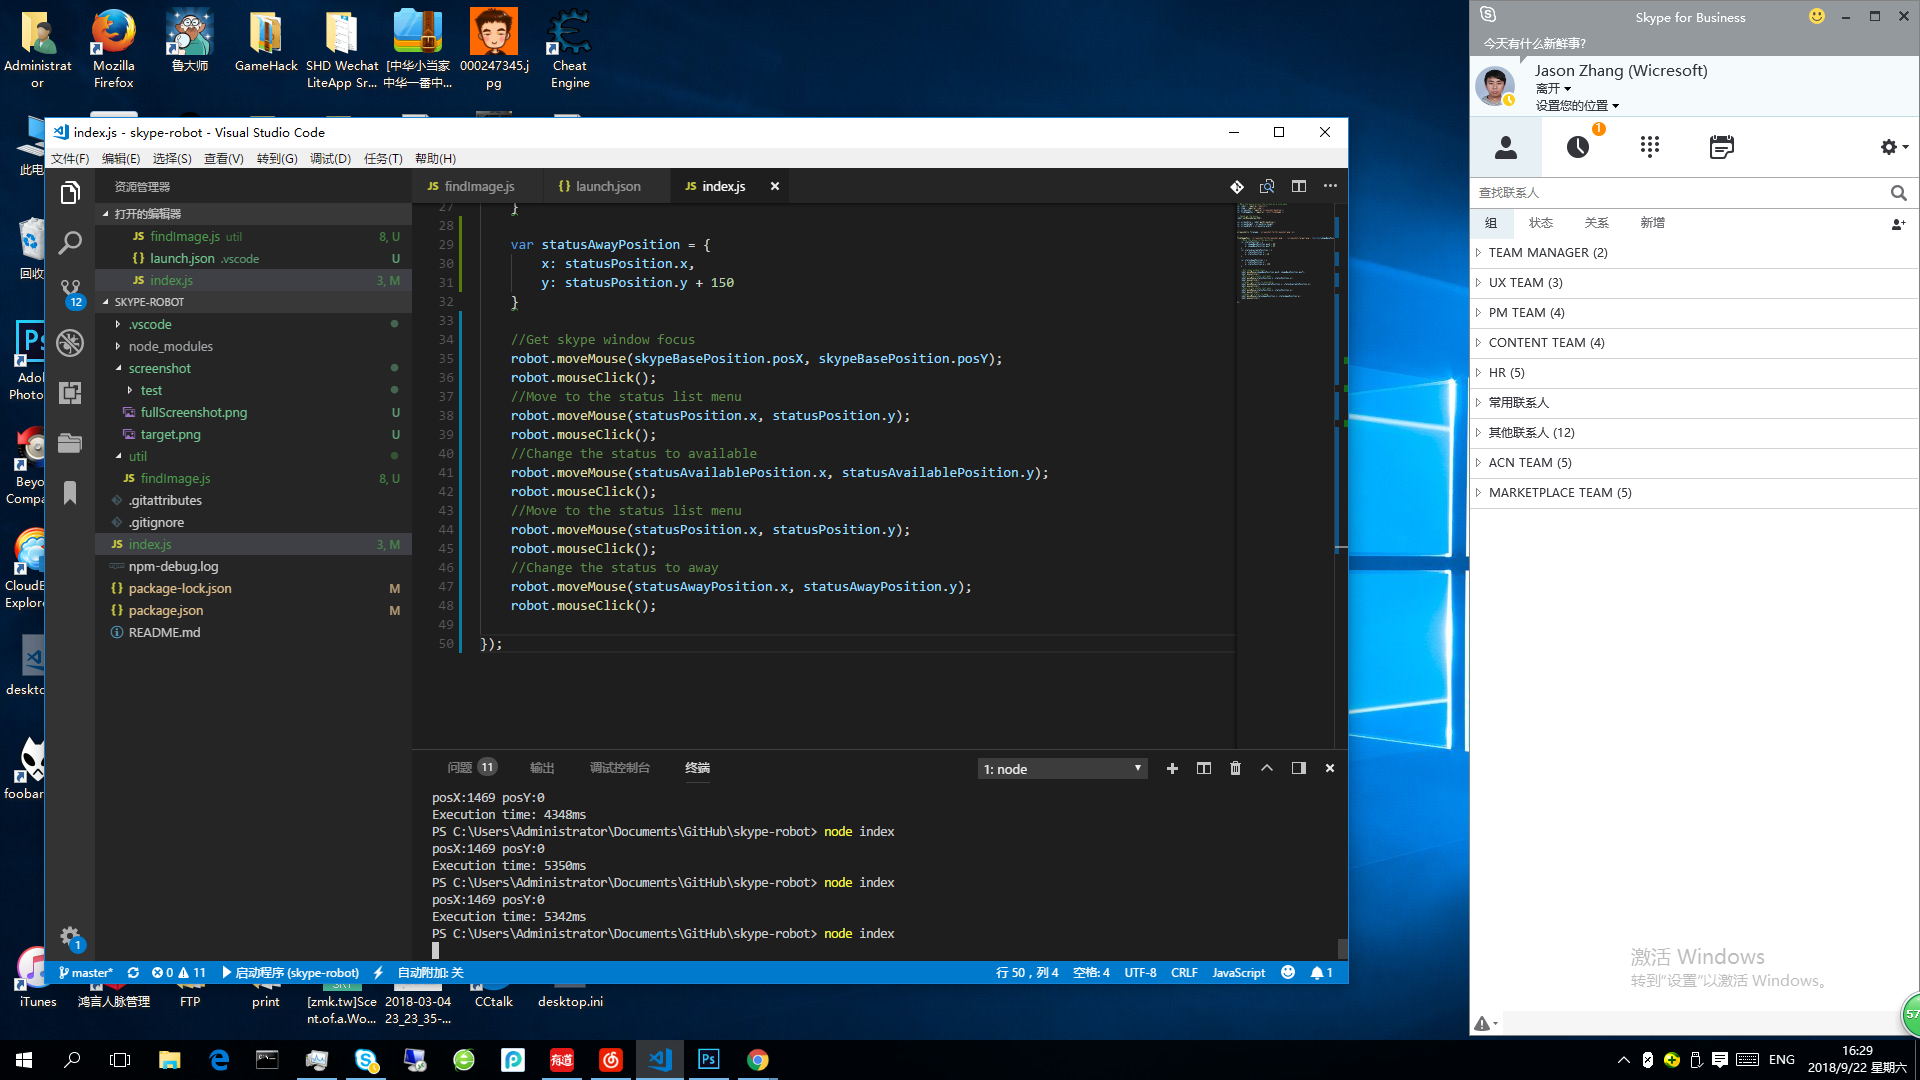
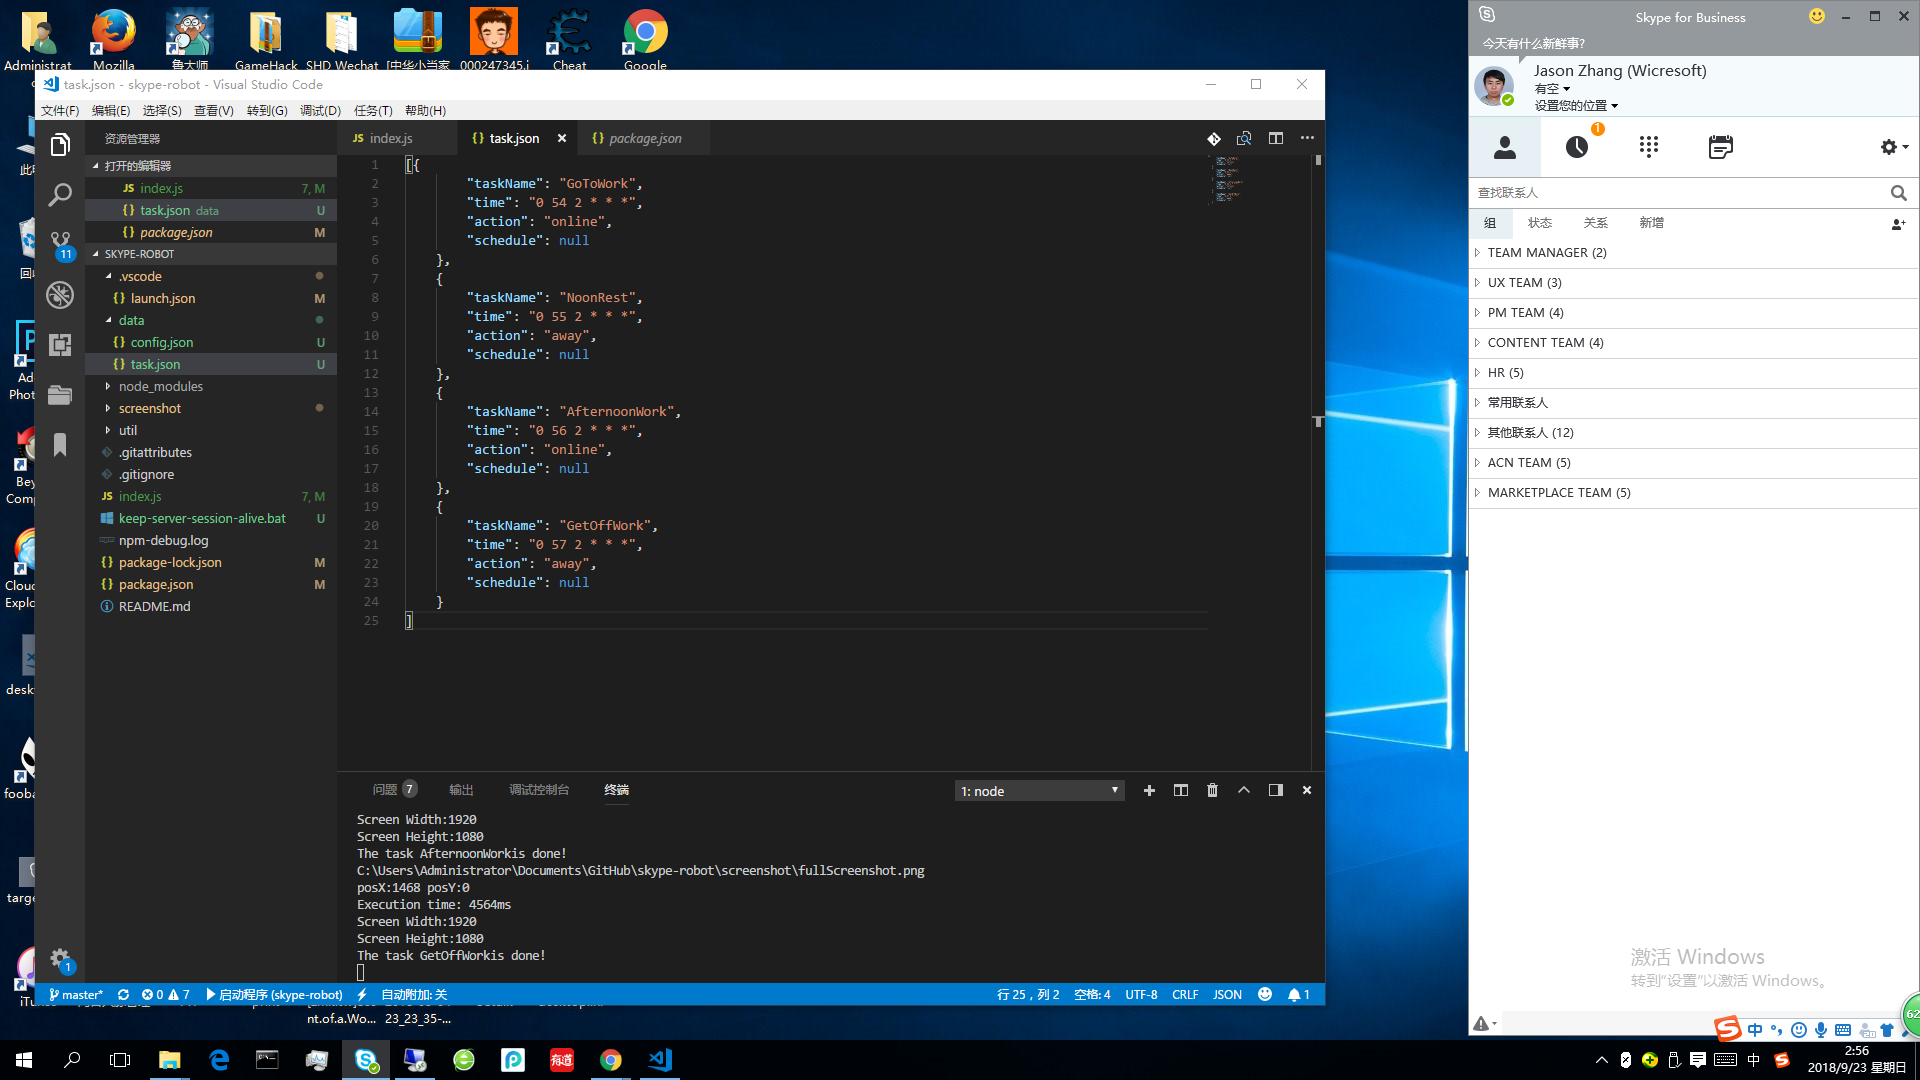
Adapt to different screen resolutions

diff --git a/index.js b/index.js
@@ -3,48 +3,97 @@ var robot = require("robotjs");
 var Jimp = require('jimp');
 var screenshot = require('screenshot-desktop');
 var findImagePos = require('./util/findImage');
+var schedule = require('node-schedule');
+var config = require('./data/config.json');
+var task = require('./data/task.json');
+var schedule = require('node-schedule');
 
 // Speed up the mouse.
 robot.setMouseDelay(500);
 
-var screenSize = robot.getScreenSize();
-var screenHeight = screenSize.height;
-var screenWidth = screenSize.width;
+var doAction = function(actionName) {
+    var screenSize = robot.getScreenSize();
+    var screenHeight = screenSize.height;
+    var screenWidth = screenSize.width;
+    var moveRatio = 0.8;
+    console.log('Screen Width:' + screenWidth);
+    console.log('Screen Height:' + screenHeight);
+    //real screen width：819
+    //screenshot width: 1024
+    //ratio: 819/1024 = 0.7998 = 0.8
+    screenshot({
+        filename: config.fullScreenshotUrl
+    }).then((imgPath) => {
+        console.log(imgPath);
+        Jimp.read(config.fullScreenshotUrl).then(image => {
+            moveRatio = screenWidth / image.getWidth();
+            findImagePos(config.fullScreenshotUrl, config.targetUrl, function(skypeBasePosition) {
+                //Move the mouse to the position.
+                var statusPosition = {
+                    x: skypeBasePosition.posX + config.statusPositionOffset.x,
+                    y: skypeBasePosition.posY + config.statusPositionOffset.y
+                }
+                var statusAvailablePosition = {
+                    x: statusPosition.x + config.statusAvailablePositionOffset.x,
+                    y: statusPosition.y + config.statusAvailablePositionOffset.y
+                }
 
-//
-screenshot({ filename: 'screenshot/fullScreenshot.png' });
+                var statusAwayPosition = {
+                    x: statusPosition.x + config.statusAwayPositionOffset.x,
+                    y: statusPosition.y + config.statusAwayPositionOffset.y
+                }
 
-//
-findImagePos('./screenshot/fullScreenshot.png', './screenshot/target.png', function(skypeBasePosition) {
-    //Move the mouse to the position.
-    var statusPosition = {
-        x: skypeBasePosition.posX + 88,
-        y: skypeBasePosition.posY + 85
-    }
-    var statusAvailablePosition = {
-        x: statusPosition.x,
-        y: statusPosition.y + 20
-    }
+                //Get skype window focus
+                robot.moveMouse(skypeBasePosition.posX * moveRatio, skypeBasePosition.posY * moveRatio);
+                robot.mouseClick();
+                screenshot({
+                    filename: 'screenshot/window-active.png'
+                });
+                switch (actionName) {
+                    case 'online':
 
-    var statusAwayPosition = {
-        x: statusPosition.x,
-        y: statusPosition.y + 150
-    }
+                        //Move to the status list menu
+                        robot.moveMouse(statusPosition.x * moveRatio, statusPosition.y * moveRatio);
+                        robot.mouseClick();
+                        screenshot({
+                            filename: 'screenshot/status-menu.png'
+                        });
+                        //Change the status to available
+                        robot.moveMouse(statusAvailablePosition.x * moveRatio, statusAvailablePosition.y * moveRatio);
+                        robot.mouseClick();
+                        screenshot({
+                            filename: 'screenshot/status-online.png'
+                        });
+                        break;
 
-    //Get skype window focus
-    robot.moveMouse(skypeBasePosition.posX, skypeBasePosition.posY);
-    robot.mouseClick();
-    //Move to the status list menu
-    robot.moveMouse(statusPosition.x, statusPosition.y);
-    robot.mouseClick();
-    //Change the status to available
-    robot.moveMouse(statusAvailablePosition.x, statusAvailablePosition.y);
-    robot.mouseClick();
-    //Move to the status list menu
-    robot.moveMouse(statusPosition.x, statusPosition.y);
-    robot.mouseClick();
-    //Change the status to away
-    robot.moveMouse(statusAwayPosition.x, statusAwayPosition.y);
-    robot.mouseClick();
+                    case 'away':
+                        //Move to the status list menu
+                        robot.moveMouse(statusPosition.x * moveRatio, statusPosition.y * moveRatio);
+                        robot.mouseClick();
 
-});
+                        //Change the status to away
+                        robot.moveMouse(statusAwayPosition.x * moveRatio, statusAwayPosition.y * moveRatio);
+                        robot.mouseClick();
+                        break;
+                }
+
+                //Lose the skype window focus
+                robot.moveMouse(0, 0);
+                robot.mouseClick();
+
+            });
+        });
+    });
+
+
+}
+
+for (var i = 0; i < task.length; i++) {
+    var taskItem = task[i];
+    taskItem.schedule = (function(taskItem) {
+        return schedule.scheduleJob(taskItem.time, function() {
+            doAction(taskItem.action);
+            console.log('The task ' + taskItem.taskName + 'is done!');
+        });
+    })(taskItem);
+}
